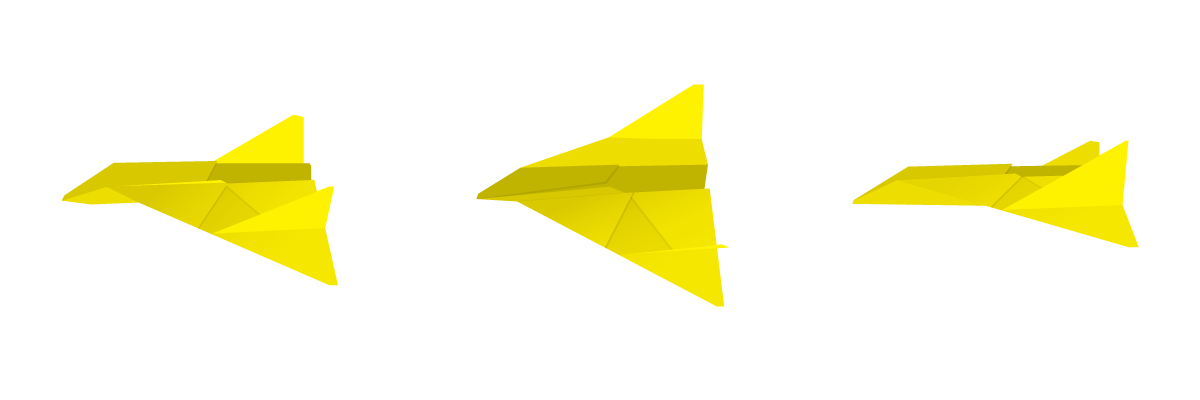
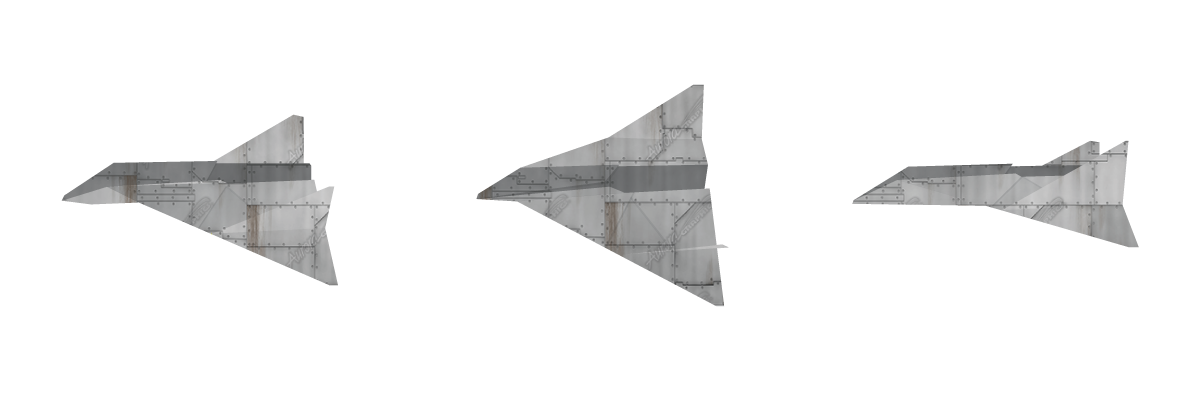
Final fly improvements, add new graphics

Changed region(s): [[0.4008, 0.21, 0.6167, 0.78], [0.0308, 0.3, 0.2775, 0.72], [0.7092, 0.36, 0.9558, 0.63]]

diff --git a/fly/js/Plane.js b/fly/js/Plane.js
@@ -11,13 +11,14 @@
     this.G = .23; 			// universal gravitational constant.
     this.drag = .99;
     this.offScreenCounter = 0;
+    this.offScreenMax = 4;
     this.lineAlpha = 1;
     this.rotatePlane = false;
     this.isDead = false;
     this.hand = null;
     
     this.playerId = null;
-    this.planeType = getRandomPlane();
+    this.planeType = getRandomPlane(this);
     this.colorId = getRandomColor();
 
     this.lineWidth = 3;
@@ -62,8 +63,8 @@
     };
 
     this.update = function () {
-        var color = getColorValue(this.colorId);
-         if (this.offScreenCounter < 4) {
+        var color = getColorValue(this.colorId, this.planeType);
+        if (this.offScreenCounter < this.offScreenMax) {
             if (this.p.x > canvas.width + 100) {
                 this.p.x = 0;
                 this.offScreenCounter += 1;
@@ -103,9 +104,9 @@
     }
     
     this.draw = function () {
-        var color = getColorValue(this.colorId);
+        var color = getColorValue(this.colorId, this.planeType);
         var context = canvas.getContext("2d");
-        if (this.offScreenCounter < 4) {
+        if (this.offScreenCounter < this.offScreenMax) {
             context.save();
 
             if (this.isActive) {
@@ -142,23 +143,8 @@
 
             var _pathCanvas = document.getElementById('pathCanvas');
             var _pathContext = _pathCanvas.getContext("2d");
-            //if (this.isActive && Math.abs(this.p.x - this.lastX) < 150 && Math.abs(this.p.y - this.lastY) < 150) {
-            //    //_pathContext.save();
-            //    //_pathContext.setLineDash(this.lineDash);
-            //    //_pathContext.beginPath();
-            //    //_pathContext.lineTo(this.lastX, this.lastY);
-            //    //_pathContext.lineTo(this.p.x, this.p.y);
-            //    //_pathContext.lineWidth = this.lineWidth;
-            //    //_pathContext.lineJoin = 'round';
-            //    //_pathContext.lineCap = 'round';
-            //    //_pathContext.strokeStyle = color;
-            //    //_pathContext.stroke();
-            //    //_pathContext.restore();
 
-            //    this._paths.push(new Path(this.lastX, this.lastY, this.p.x, this.p.y, color));
-            //}
-
-            if (this.paths.length > 4) {
+            if (this.paths.length > this.offScreenMax) {
                 this.paths.forEach(function (path) {
                     if (path) {
                         path.draw();
@@ -174,34 +160,49 @@
     }
 }
 
-function getRandomPlane() {
-    var planeId = Math.floor(Math.random() * 5);
+function getRandomPlane(obj) {
+    var that = obj;
+    var planeId = Math.floor(Math.random() * 11);
     switch (planeId) {
-        case 1:
-            this.drag = .99;
-            this.lineDash = [5, 15];
-            this.lineWidth = 2;
-            break;
-        case 2:
-            this.drag = .99;
-            this.lineDash = [3, 20];
-            this.lineWidth = 3;
-            break;
         case 3:
-            this.drag = .99;
-            this.lineDash = [1, 10];
-            this.lineWidth = 2;
-            break;
         case 4:
-            this.drag = .99;
-            this.lineDash = [10, 10];
-            this.lineWidth = 4;
+        case 5:
+            that.drag = .99;
+            that.lineDash = [5, 15];
+            that.lineWidth = 2;
+            planeId = 1;
+            break;
+        case 6:
+        case 7:
+        case 8:
+            that.drag = .99;
+            that.lineDash = [3, 20];
+            that.lineWidth = 3;
+            planeId = 3;
+            break;
+        case 9:
+            that.G = .2;
+            that.lineDash = [1, 0];
+            that.lineWidth = 1;
+            planeId = 2;
+            break;
+        case 10:
+            that.G = -0.1;
+            that.drag = .99;
+            that.lineDash = [10, 10];
+            that.lineWidth = 10;
+            that.offScreenMax = 10;
+            planeId = 4;
             break;
         case 0:
+        case 1:
+        case 2:
         default:
-            this.drag = .99;
-            this.lineDash = [4, 10, 8, 20];
-            this.lineWidth = 1;
+            that.G = .17;
+            that.drag = .94;
+            that.lineDash = [4, 10, 8, 20];
+            that.lineWidth = 1;
+            planeId = 0;
             break;
     }
 
@@ -212,7 +213,7 @@ function getRandomColor() {
     return Math.floor(Math.random() * 9);
 }
 
-function getColorValue(colorId) {
+function getColorValue(colorId, planeId) {
     var hex;
     switch (colorId) {
         case 1:
@@ -247,5 +248,7 @@ function getColorValue(colorId) {
             hex = '#fff200';
             break;
     }
+    if (planeId === 2) { hex = '#666666'; }
+    if (planeId === 4) { hex = '#FFFFFF'; }
     return hex;
 }

diff --git a/fly/js/flyCanvas.js b/fly/js/flyCanvas.js
@@ -147,7 +147,7 @@
                   this._planes[index].lastX = xPosition;
               }
 
-              if (player['status'] === 'open' && lastPlayer['status'] === 'closed') {
+              if ((player['status'] === 'open' && lastPlayer['status'] === 'closed') || (this._planes[index] && player['status'] === 'open' && lastPlayer['status'] === 'open' && this._planes[index].hand === whichHand)) {
                   this._planes[index] = this.getPlane(index, xPosition, yPosition);
                  
                   this.statusText = 'Start: ' + this._planes[index].startX + "," + this._planes[index].startY + '\n Thrown At: ' + xPosition + "," + yPosition;
